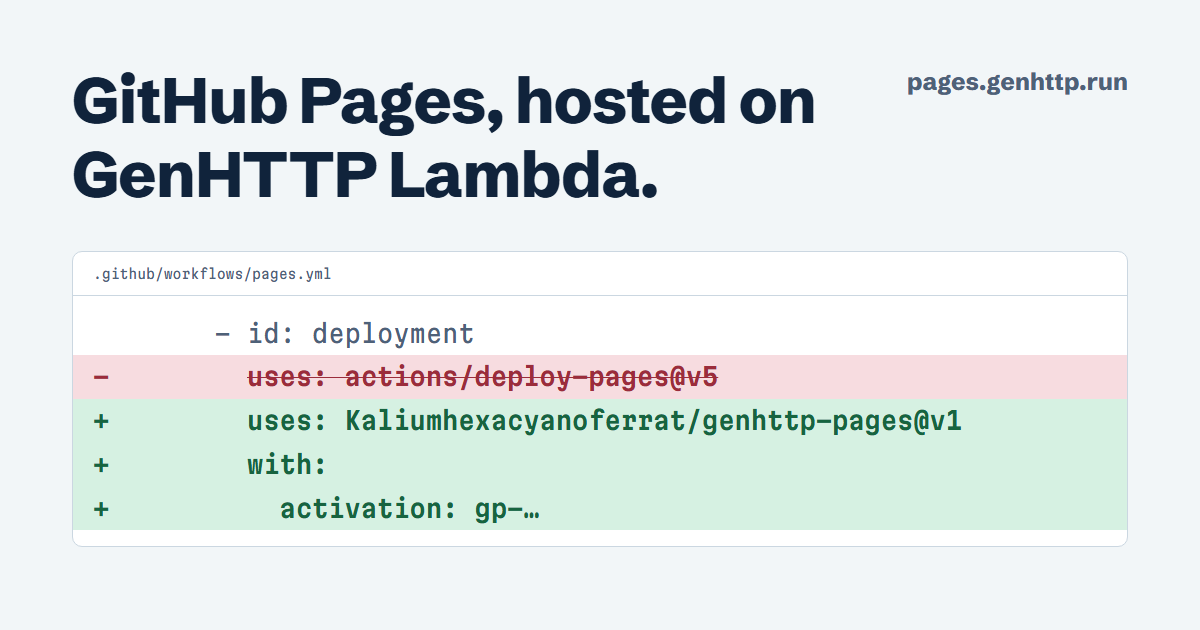
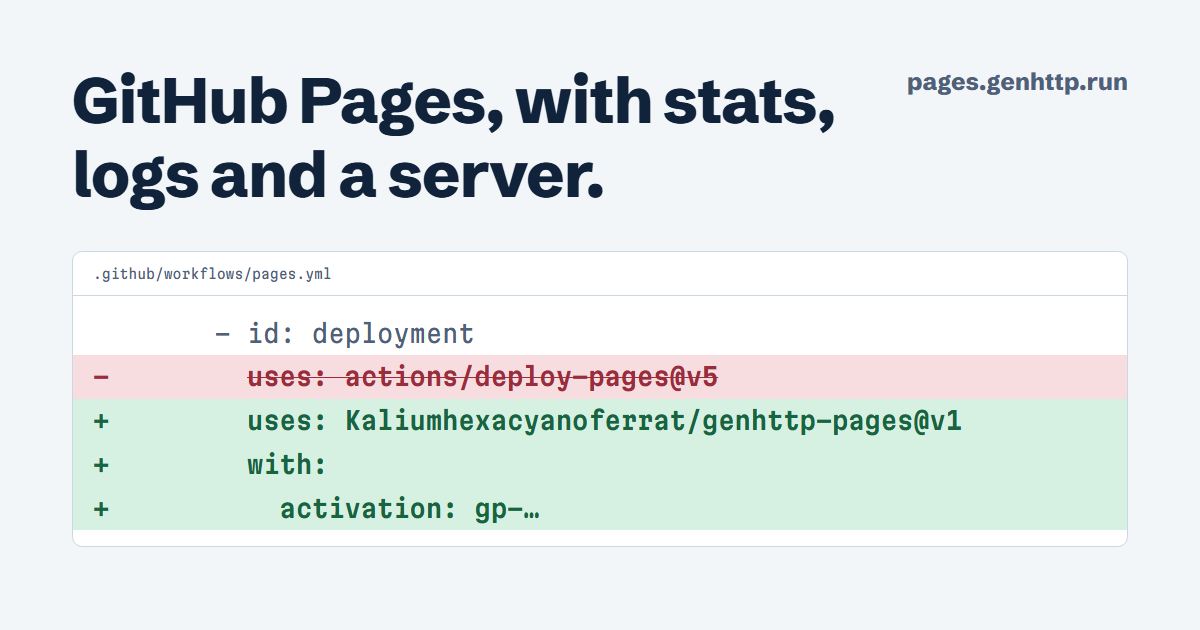
Say what it is in words people know: GitHub Pages, with stats, logs and a server
The headline named a platform nobody searches for. It now says what the
site gets on top of GitHub Pages; the lede, the page title, the
description, the social picture and the README open the same way.

Changed region(s): [[0.0617, 0.2413, 0.555, 0.3317], [0.4317, 0.1206, 0.7092, 0.2111]]

diff --git a/website/index.html b/website/index.html
@@ -3,12 +3,12 @@
 <head>
   <meta charset="utf-8">
   <meta name="viewport" content="width=device-width, initial-scale=1">
-  <title>GenHTTP Pages – publish your GitHub Pages site to GenHTTP Lambda</title>
-  <meta name="description" content="A drop-in replacement for actions/deploy-pages. Change one step of your GitHub Pages workflow and your site is hosted on GenHTTP Lambda, with traffic statistics, a request log and every deployment kept. No secret, no account.">
+  <title>GenHTTP Pages – GitHub Pages with stats, logs and a server</title>
+  <meta name="description" content="GitHub Pages with traffic statistics, a request log, every deployment kept and a server when you need one. Change one step of your Pages workflow - no secret, no account.">
   <link rel="canonical" href="https://pages.genhttp.run/">
   <meta property="og:type" content="website">
   <meta property="og:title" content="GenHTTP Pages">
-  <meta property="og:description" content="Change one step of your GitHub Pages workflow and host the site on GenHTTP Lambda.">
+  <meta property="og:description" content="GitHub Pages with stats, logs and a server. Change one step of your workflow.">
   <meta property="og:url" content="https://pages.genhttp.run/">
   <meta property="og:image" content="https://pages.genhttp.run/og.png">
   <meta name="twitter:card" content="summary_large_image">
@@ -36,10 +36,11 @@
 <main>
 
 <section class="hero">
-  <h1>Your GitHub Pages site, hosted on GenHTTP&nbsp;Lambda.</h1>
+  <h1>GitHub Pages, with stats, logs and a server.</h1>
   <p class="lede">
-    Change one step of your workflow. Keep your build, get traffic statistics, a
-    request log and every deployment, with no secret and no account.
+    Your build and your pages stay as they are. Change one step of the workflow, and the
+    site gets an editor with its traffic, every deployment and room for code. No secret,
+    no account.
   </p>
 
   <figure class="diff" aria-label="The change to a GitHub Pages workflow">

diff --git a/website/style.css b/website/style.css
@@ -104,7 +104,8 @@ h1, h2, h3 { line-height: 1.15; letter-spacing: -0.02em; }
 h1 {
   font-size: clamp(2.25rem, 6vw, 4.25rem);
   font-weight: 800;
-  max-width: 16ch;
+  max-width: 20ch;
+  text-wrap: balance;
   margin: 2rem 0 1.25rem;
 }
 

diff --git a/README.md b/README.md
@@ -1,8 +1,8 @@
 # GenHTTP Pages
 
-Publish your GitHub Pages site to [GenHTTP Lambda](https://genhttp.dev/) instead.
-A drop-in replacement for `actions/deploy-pages`: keep your workflow and change
-the step that deploys. No secret, no account.
+GitHub Pages, with stats, logs and a server. A drop-in replacement for
+`actions/deploy-pages`: keep your workflow and change the step that deploys. No
+secret, no account. The site is hosted on [GenHTTP Lambda](https://genhttp.dev/).
 
 ```diff
      steps:
